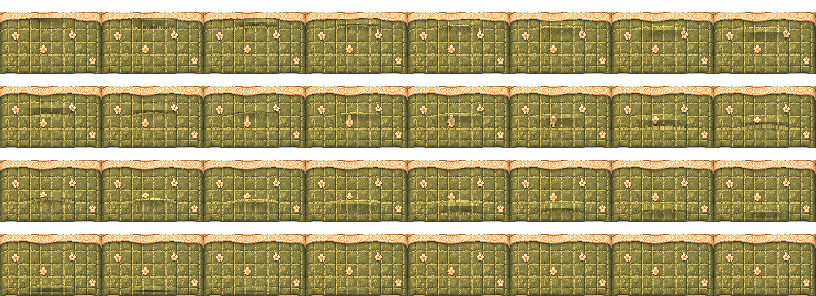
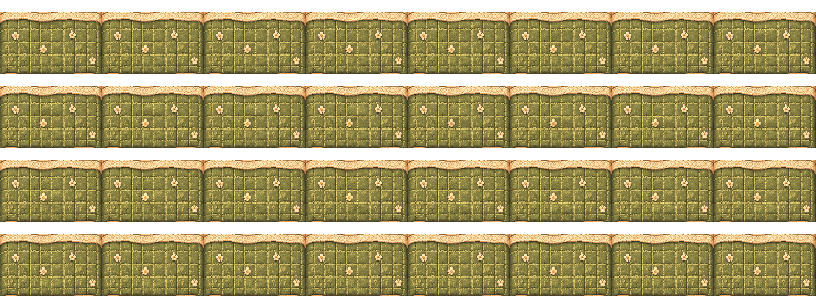
Fix Lucky bed clipping and the traveling quilt artifact

diff --git a/src/game/TrioSleepController.ts b/src/game/TrioSleepController.ts
@@ -6,6 +6,7 @@ import type {PetActionDirector} from './PetActionDirector'
 import type {CompanionController} from './CompanionController'
 import {luckyMotion} from './luckyAssets'
 import {trioAllowed} from './access'
+import {luckyBedAssetsReady} from './luckyBedFrames'
 export class TrioSleepController {
  readonly state=new TrioState()
  readonly scope:ActionScope
@@ -13,14 +14,14 @@ export class TrioSleepController {
  private onBed=false
  private burrowed=false
  private lift=0
- private exposedEdge=104
+ private tuck=0
  private reveal=0
  private head:Phaser.GameObjects.Sprite
  private above:Phaser.GameObjects.Sprite
- private frontMask:Phaser.GameObjects.Graphics
  private bodyMask:Phaser.GameObjects.Graphics
- private headMask:Phaser.GameObjects.Graphics
  private bodyGeometry:Phaser.Display.Masks.GeometryMask
+ private frontMask:Phaser.GameObjects.Graphics
+ private headMask:Phaser.GameObjects.Graphics
  private frontGeometry:Phaser.Display.Masks.GeometryMask
  private headGeometry:Phaser.Display.Masks.GeometryMask
  private shadow:Phaser.GameObjects.Ellipse
@@ -28,14 +29,18 @@ export class TrioSleepController {
  private lampShade={alpha:0}
  private recovery?:Promise<void>
  private priorIntent:'free'|'follow'|'follow-mendu'='free'
- constructor(scene:Phaser.Scene,private lucky:LuckyController,private director:PetActionDirector,private companion:CompanionController,
+ constructor(private scene:Phaser.Scene,private lucky:LuckyController,private director:PetActionDirector,private companion:CompanionController,
   private getLocation:()=> 'home'|'yard',private travelHome:(valid:()=>boolean)=>Promise<boolean>,private notice:(message:string)=>void){
   this.scope=new ActionScope(scene)
   this.head=scene.add.sprite(96,88,'lucky-performance',49).setOrigin(.5,1).setCrop(0,0,40,26).setDepth(12.18).setVisible(false)
-  this.above=scene.add.sprite(0,0,'lucky-performance').setOrigin(.5,1).setDepth(12.25).setVisible(false)
-  this.frontMask=scene.make.graphics({x:0,y:0});this.frontMask.fillStyle(0xffffff).fillRect(75,132,42,70);this.frontGeometry=this.frontMask.createGeometryMask();this.above.setMask(this.frontGeometry)
-  this.bodyMask=scene.make.graphics({x:0,y:0});this.bodyMask.fillStyle(0xffffff).fillRect(75,78,42,90);this.bodyGeometry=this.bodyMask.createGeometryMask()
-  this.headMask=scene.make.graphics({x:0,y:0});this.headGeometry=this.headMask.createGeometryMask();this.head.setMask(this.headGeometry)
+  this.above=scene.add.sprite(0,0,'lucky-performance').setOrigin(.5,1).setDepth(12.19).setVisible(false)
+  this.frontMask=scene.make.graphics({}, false);this.frontMask.fillStyle(0xffffff).fillRect(75,132,42,70);this.frontGeometry=this.frontMask.createGeometryMask();this.above.setMask(this.frontGeometry)
+  // The submerged copy cannot leak through the top edge when the head
+  // crosses from below the blanket to the separately revealed pillow layer.
+  this.bodyMask=scene.make.graphics({}, false)
+  this.bodyMask.fillStyle(0xffffff).fillRect(74,78,44,72)
+  this.bodyGeometry=this.bodyMask.createGeometryMask()
+  this.headMask=scene.make.graphics({}, false);this.headGeometry=this.headMask.createGeometryMask();this.head.setMask(this.headGeometry)
   this.shadow=scene.add.ellipse(0,0,16,5,0x47372a,.22).setDepth(3.5).setVisible(false)
   this.lamp=scene.add.graphics().setDepth(14)
  }
@@ -46,12 +51,25 @@ export class TrioSleepController {
   if (this.burrowed && !this.head.visible && this.lucky.sprite.y > 94) {
    quilt.raiseAt(this.lucky.sprite.y - 12)
   } else quilt.liftCenter(this.burrowed ? this.lift / 10 : null)
-  this.frontMask.clear().fillStyle(0xffffff).fillRect(75,this.exposedEdge,42,70)
+  const top = this.lucky.sprite.y - 41 + Math.round(this.tuck * 48)
+  const center = this.lucky.sprite.x
+  // Paint only Lucky's portion in front of the quilt. An arched lip covers
+  // the head first, then the shoulders and finally the rear paws.
+  this.frontMask.clear().fillStyle(0xffffff)
+    .beginPath().moveTo(center - 22, top - 4)
+    .lineTo(center - 12, top).lineTo(center - 5, top + 2)
+    .lineTo(center + 5, top + 2).lineTo(center + 12, top)
+    .lineTo(center + 22, top - 4).lineTo(center + 22, top + 55)
+    .lineTo(center - 22, top + 55).closePath().fillPath()
   this.headMask.clear().fillStyle(0xffffff).fillRect(75,78-this.reveal,42,this.reveal)
  }
  private async cover(token:number,lift:number,duration=400){return this.scope.tween(token,{targets:this,lift,duration,onUpdate:()=>this.updateQuilt()})}
  private phase(token:number,phase:Parameters<TrioState['advance']>[1]){return this.state.advance(token,phase)}
  async start(){
+  if(trioAllowed && !luckyBedAssetsReady(this.scene.textures)){
+   this.notice('Lucky 的床铺动作素材未加载，请刷新页面后再试。')
+   return
+  }
   const revision=this.state.begin(trioAllowed)
   if(revision===null){this.notice(trioAllowed?'三人睡眠正在进行。':'三人睡眠仅在授权的私有试玩中开放。');return}
   this.revision=revision
@@ -79,13 +97,34 @@ export class TrioSleepController {
    if(!await this.jump(token,{x:126,y:125},true))return
    this.phase(revision,'LAND')
    if(!await this.land(token,true,true))return
+   this.phase(revision,'WALK_BED')
    const dog = this.lucky.sprite
    dog.setFlipX(false)
-   if(!await this.scope.tween(token,{targets:dog,x:96,y:125,duration:330,onStart:()=>luckyMotion(dog,'left','walk')}))return
-   if(!await this.scope.tween(token,{targets:dog,y:133,duration:180,onStart:()=>luckyMotion(dog,'down','walk')}))return
-   this.phase(revision,'BURROW');this.burrowed=true;this.exposedEdge=104;this.frame(20);this.lucky.sprite.setMask(this.bodyGeometry);this.above.setVisible(true)
-   if(!await this.scope.tween(token,{targets:this,lift:9,exposedEdge:122,duration:390,onUpdate:()=>this.updateQuilt()}))return
-   for(const [frame,y]of [[20,130],[21,122],[22,112],[23,101]]as const){this.frame(frame);if(!await this.scope.tween(token,{targets:this.lucky.sprite,y,duration:350}))return}
+   luckyMotion(dog,'left','walk')
+   if(!await this.scope.tween(token,{targets:dog,x:96,y:125,duration:425}))return
+   luckyMotion(dog,'down','walk')
+   if(!await this.scope.tween(token,{targets:dog,y:133,duration:220}))return
+   luckyMotion(dog,'up','idle')
+   if(!await this.scope.wait(token,125))return
+
+   this.phase(revision,'BURROW')
+   this.burrowed=true
+   dog.setMask(this.bodyGeometry)
+   this.tuck=0
+   this.lift=9
+   this.shadow.setVisible(false)
+   this.frame(21)
+   this.updateExposedSprite()
+   this.updateQuilt()
+   this.above.setVisible(true)
+   for(const [frame,y,tuck] of [[21,129,.30],[22,121,.68],[23,109,1]] as const){
+    this.frame(frame)
+    const from=this.tuck
+    if(!await this.scope.tween(token,{
+     targets:dog,y,duration:280,onUpdate:tween=>{ this.tuck=from+(tuck-from)*tween.progress },
+    }))return
+   }
+   this.above.setVisible(false)
    this.frame(26);if(!await this.scope.tween(token,{targets:this.lucky.sprite,y:88,duration:750}))return
    this.frame(48);this.head.setVisible(true);if(!await this.scope.tween(token,{targets:this,reveal:25,duration:550,onUpdate:()=>this.updateQuilt()}))return
    if(!await this.cover(token,1.5))return
@@ -107,16 +146,22 @@ export class TrioSleepController {
  }
  private async jump(token:number,target:{x:number;y:number},flip:boolean){
   const dog=this.lucky.sprite, start={x:dog.x,y:dog.y}, progress={t:0}
-  this.jumpPose(3,flip)
-  return this.scope.tween(token,{
-   targets:progress,t:1,duration:480,ease:'Linear',
-   onUpdate:()=>{
-    const t=progress.t, groundX=start.x+(target.x-start.x)*t, groundY=start.y+(target.y-start.y)*t
-    this.jumpPose(t<.22?3:t<.58?4:5,flip)
-    dog.setPosition(groundX,groundY-4*15*t*(1-t))
-    this.shadow.setPosition(groundX,groundY+2).setScale(1-.28*Math.sin(Math.PI*t),1)
-   },
-  })
+  const update=()=>{
+   const t=progress.t
+   const groundX=start.x+(target.x-start.x)*t
+   const groundY=start.y+(target.y-start.y)*t
+   dog.setPosition(groundX,groundY-4*15*t*(1-t))
+   this.shadow.setPosition(groundX,groundY+2).setScale(1-.28*Math.sin(Math.PI*t),1)
+  }
+  // Separate the pose holds so even a delayed render does not skip the apex.
+  // All three segments still sample the same continuous arc.
+  for(const [frame,end,duration] of [[3,.23,110],[4,.58,170],[5,1,200]] as const){
+   this.jumpPose(frame,flip)
+   if(!await this.scope.tween(token,{
+    targets:progress,t:end,duration,ease:'Linear',onUpdate:update,
+   }))return false
+  }
+  return true
  }
  private async land(token:number,flip:boolean,onMattress:boolean){
   for(const [frame,duration,compression] of [[6,115,1],[7,150,2],[0,145,0]]){
@@ -160,23 +205,39 @@ export class TrioSleepController {
    if(!await this.cover(token,9))return false
    if(!await this.scope.tween(token,{targets:this,reveal:0,duration:400,onUpdate:()=>this.updateQuilt()}))return false
    this.head.setVisible(false);this.frame(29)
-   this.exposedEdge=122
-   if(!await this.scope.tween(token,{targets:this.lucky.sprite,y:145,duration:860}))return false
-   this.frame(28);if(!await this.scope.tween(token,{targets:this.lucky.sprite,y:160,duration:400}))return false
-   this.lucky.sprite.clearMask();this.above.setVisible(false);this.burrowed=false
+   this.updateExposedSprite()
+   this.above.setVisible(true)
+   const from=this.tuck
+   if(!await this.scope.tween(token,{
+    targets:this.lucky.sprite,y:128,duration:760,
+    onUpdate:tween=>{ this.tuck=from*(1-tween.progress) },
+   }))return false
+   this.frame(28);if(!await this.scope.tween(token,{targets:this.lucky.sprite,y:134,duration:260}))return false
+   this.lucky.sprite.clearMask()
+   this.above.setVisible(false);this.burrowed=false
    this.frame(30);if(!await this.scope.wait(token,550))return false
   }
   if(!await this.prepareJump(token,false))return false
   this.shadow.setVisible(true)
   if(!await this.jump(token,{x:168,y:144},false)||!await this.land(token,false,false))return false
-  this.onBed=false;this.lucky.setAirborne(false);this.lucky.sprite.clearMask();this.shadow.setVisible(false);this.companion.bed.quilt.liftCenter(null);this.head.setVisible(false);this.above.setVisible(false)
+  this.onBed=false;this.lucky.setAirborne(false);this.shadow.setVisible(false);this.companion.bed.quilt.liftCenter(null);this.head.setVisible(false);this.above.setVisible(false)
   // Keep Lucky grounded but coordinated until BOTH humans finish leaving bed.
   this.lucky.setExternal(true);this.lucky.machine.state='IDLE';luckyMotion(this.lucky.sprite,'down','idle');return true
  }
- private cleanup(resumeLucky=true){this.onBed=false;this.burrowed=false;this.reveal=0;this.lift=0;this.lampShade.alpha=0;this.lamp.clear();this.lucky.sprite.clearMask();this.head.setVisible(false);this.above.setVisible(false);this.companion.bed.quilt.liftCenter(null);this.shadow.setVisible(false);this.companion.bed.setMattressOffset(0);this.companion.bed.setHeadLayerEnabled(false);this.companion.lockRole('mashuo',false);this.companion.lockRole('mendu',false);if(resumeLucky){this.lucky.setExternal(false);this.lucky.legacyRequest(this.priorIntent)}}
+ private cleanup(resumeLucky=true){this.onBed=false;this.burrowed=false;this.lucky.sprite.clearMask();this.tuck=0;this.reveal=0;this.lift=0;this.lampShade.alpha=0;this.lamp.clear();this.head.setVisible(false);this.above.setVisible(false);this.companion.bed.quilt.liftCenter(null);this.shadow.setVisible(false);this.companion.bed.setMattressOffset(0);this.companion.bed.setHeadLayerEnabled(false);this.companion.lockRole('mashuo',false);this.companion.lockRole('mendu',false);if(resumeLucky){this.lucky.setExternal(false);this.lucky.legacyRequest(this.priorIntent)}}
+ private updateExposedSprite(){
+  const body=this.lucky.sprite
+  this.above.setPosition(body.x,body.y).setTexture(body.texture.key,body.frame.name).setFlipX(body.flipX)
+ }
  update(time:number){
   if(!this.active)return
-  if(this.onBed){this.lucky.sprite.setDepth(this.burrowed?11:12.3);this.above.setPosition(this.lucky.sprite.x,this.lucky.sprite.y).setTexture(this.lucky.sprite.texture.key,this.lucky.sprite.frame.name).setFlipX(this.lucky.sprite.flipX)}
+  if(this.onBed){
+   this.lucky.sprite.setDepth(this.burrowed?11:12.15)
+   if(this.above.visible)this.updateExposedSprite()
+   if(this.state.phase==='LAND'||this.state.phase==='WALK_BED'){
+    this.shadow.setPosition(this.lucky.sprite.x,this.lucky.sprite.y+2).setScale(1)
+   }
+  }
   if(this.state.phase==='SLEEP'){
    this.frame(49+Math.floor(time/1500)%2);this.head.setTexture('lucky-performance',this.lucky.sprite.frame.name).setPosition(96,88);this.lift=1.5+Math.sin(time/1700)*.7;this.updateQuilt()
   }else if(this.head.visible)this.head.setTexture(this.lucky.sprite.texture.key,this.lucky.sprite.frame.name).setPosition(this.lucky.sprite.x,this.lucky.sprite.y)
@@ -184,5 +245,5 @@ export class TrioSleepController {
   this.lamp.clear();if(this.lampShade.alpha>0)this.lamp.fillStyle(0x3e3024,this.lampShade.alpha).fillRoundedRect(162,115,13,20,3)
  }
  resetScene(){if(this.transfer||!this.active)return;this.scope.cancel();const rev=this.state.cancel();this.state.recovered(rev);this.cleanup()}
- dispose(){this.scope.dispose();this.lucky.sprite.clearMask();this.head.destroy();this.above.destroy();this.shadow.destroy();this.lamp.destroy();this.frontGeometry.destroy();this.bodyGeometry.destroy();this.headGeometry.destroy();this.frontMask.destroy();this.bodyMask.destroy();this.headMask.destroy()}
+ dispose(){this.scope.dispose();this.lucky.sprite.clearMask();this.bodyGeometry.destroy();this.bodyMask.destroy();this.head.destroy();this.above.destroy();this.shadow.destroy();this.lamp.destroy();this.frontGeometry.destroy();this.headGeometry.destroy();this.frontMask.destroy();this.headMask.destroy()}
 }

diff --git a/src/game/coordinatedActions.test.ts b/src/game/coordinatedActions.test.ts
@@ -6,6 +6,6 @@ describe('coordinated animation contracts',()=>{
  it('rejects guests and conflicting trio starts',()=>{const state=new TrioState();expect(state.begin(false)).toBeNull();expect(state.active).toBe(false);const token=state.begin(true)!;expect(state.begin(true)).toBeNull();expect(state.advance(token,'JUMP')).toBe(false)})
  it('cannot commit old phases after cancellation and recovery',()=>{const state=new TrioState(),old=state.begin(true)!;state.advance(old,'PEOPLE_ENTER');const recovery=state.cancel();expect(state.advance(old,'LUCKY_APPROACH')).toBe(false);expect(state.recovered(recovery)).toBe(true);expect(state.active).toBe(false);expect(state.begin(true)).not.toBeNull()})
  it('keeps human and Lucky performance sheets transparent and aligned',()=>{for(const [name,width,height]of [['mashuo-pet',320,240],['mendu-pet',320,240],['mashuo-arms',320,240],['mendu-arms',320,240],['lucky-performance',320,280]]as const){const bytes=readFileSync('src/assets/coordinated/'+name+'.png');expect([bytes.readUInt32BE(16),bytes.readUInt32BE(20),bytes[25]]).toEqual([width,height,6])}})
- it('supports a complete trio cycle and permits another start only after everyone recovers',()=>{const state=new TrioState(),token=state.begin(true)!;for(const next of ['PEOPLE_ENTER','LUCKY_APPROACH','JUMP','LAND','BURROW','SLEEP','LUCKY_WAKE','PEOPLE_WAKE','IDLE']as const)expect(state.advance(token,next)).toBe(true);expect(state.active).toBe(false);expect(state.begin(true)).not.toBeNull()})
+ it('supports a complete trio cycle and permits another start only after everyone recovers',()=>{const state=new TrioState(),token=state.begin(true)!;for(const next of ['PEOPLE_ENTER','LUCKY_APPROACH','JUMP','LAND','WALK_BED','BURROW','SLEEP','LUCKY_WAKE','PEOPLE_WAKE','IDLE']as const)expect(state.advance(token,next)).toBe(true);expect(state.active).toBe(false);expect(state.begin(true)).not.toBeNull()})
  it('tracks mouth anchors in all run frames and occludes the rear mouth',()=>{for(const direction of directions)for(let phase=0;phase<4;phase++){const anchor=mouthAnchor(direction,16+phase);expect(Number.isFinite(anchor.x+anchor.y)).toBe(true);expect(anchor.behind).toBe(direction==='up');expect(attach({x:100,y:100},cradleAnchors[direction])).toEqual({x:100+cradleAnchors[direction].x,y:100+cradleAnchors[direction].y})}})
 })

diff --git a/src/game/luckyBedFrames.test.ts b/src/game/luckyBedFrames.test.ts
@@ -1,0 +1,32 @@
+import type Phaser from 'phaser'
+import { describe, expect, it } from 'vitest'
+import { luckyBedAssetsReady, luckyBedFrames } from './luckyBedFrames'
+
+const matchingFrame = { cutX: 40, cutY: 40, cutWidth: 40, cutHeight: 40, source: { width: 320, height: 280 } }
+
+function textures(options: { missingSheet?: string; missingFrame?: number; badCut?: boolean } = {}) {
+  return {
+    exists: (key: string) => key !== options.missingSheet,
+    get: (key: string) => ({
+      has: (index: string) => key !== 'lucky-jump' || Number(index) !== options.missingFrame,
+      get: () => options.badCut ? { ...matchingFrame, cutX: 300 } : matchingFrame,
+    }),
+  } as unknown as Phaser.Textures.TextureManager
+}
+
+describe('Lucky bed animation atlas contract', () => {
+  it('accepts every bed pose when all loaded frames have valid 40×40 cuts', () => {
+    expect(luckyBedAssetsReady(textures())).toBe(true)
+    expect(luckyBedFrames['lucky-jump']).toContain(6)
+    expect(luckyBedFrames.lucky).toContain(7)
+  })
+
+  it('blocks the action before taking over the scene if an atlas or a landing frame is missing', () => {
+    expect(luckyBedAssetsReady(textures({ missingSheet: 'lucky-performance' }))).toBe(false)
+    expect(luckyBedAssetsReady(textures({ missingFrame: 6 }))).toBe(false)
+  })
+
+  it('rejects a frame cut outside its source atlas', () => {
+    expect(luckyBedAssetsReady(textures({ badCut: true }))).toBe(false)
+  })
+})

diff --git a/src/game/luckyBedFrames.ts b/src/game/luckyBedFrames.ts
@@ -1,0 +1,23 @@
+import type Phaser from 'phaser'
+
+/** Frames used by the bed choreography. Floor walking is also used on the mattress. */
+export const luckyBedFrames = {
+  lucky: [0, 1, 2, 3, 4, 5, 6, 7, 12, 13, 14, 15, ...Array.from({ length: 16 }, (_, i) => i + 16)],
+  'lucky-jump': [0, 1, 2, 3, 4, 5, 6, 7],
+  'lucky-performance': [18, 19, 20, 21, 22, 23, 26, 28, 29, 30, 48, 49, 50, 51],
+} as const
+
+export function luckyBedAssetsReady(textures: Phaser.Textures.TextureManager) {
+  return Object.entries(luckyBedFrames).every(([key, frames]) => {
+    if (!textures.exists(key)) return false
+    const texture = textures.get(key)
+    return frames.every(index => {
+      if (!texture.has(String(index))) return false
+      const frame = texture.get(index)
+      return frame.cutWidth === 40 && frame.cutHeight === 40
+        && frame.cutX >= 0 && frame.cutY >= 0
+        && frame.cutX + frame.cutWidth <= frame.source.width
+        && frame.cutY + frame.cutHeight <= frame.source.height
+    })
+  })
+}

diff --git a/src/game/trioState.ts b/src/game/trioState.ts
@@ -1,5 +1,5 @@
-export type TrioPhase='IDLE'|'RETURN_HOME'|'PEOPLE_ENTER'|'LUCKY_APPROACH'|'JUMP'|'LAND'|'BURROW'|'SLEEP'|'LUCKY_WAKE'|'PEOPLE_WAKE'|'RECOVER'
-const phases:TrioPhase[]=['RETURN_HOME','PEOPLE_ENTER','LUCKY_APPROACH','JUMP','LAND','BURROW','SLEEP','LUCKY_WAKE','PEOPLE_WAKE','IDLE']
+export type TrioPhase='IDLE'|'RETURN_HOME'|'PEOPLE_ENTER'|'LUCKY_APPROACH'|'JUMP'|'LAND'|'WALK_BED'|'BURROW'|'SLEEP'|'LUCKY_WAKE'|'PEOPLE_WAKE'|'RECOVER'
+const phases:TrioPhase[]=['RETURN_HOME','PEOPLE_ENTER','LUCKY_APPROACH','JUMP','LAND','WALK_BED','BURROW','SLEEP','LUCKY_WAKE','PEOPLE_WAKE','IDLE']
 export class TrioState {
   phase:TrioPhase='IDLE';private revision=0
   get active(){return this.phase!=='IDLE'}

diff --git a/scripts/prepare_quilt_folds.py b/scripts/prepare_quilt_folds.py
@@ -89,17 +89,23 @@ pack('fold-center.png', [center_frame(base, n / (FRAMES - 1)) for n in range(FRA
 # central fold follows the shoulders from the foot to that lip.
 def traveling_fold(source, offset):
     result = center_frame(source, 0)
-    for x in range(24, 78):
-        across = max(0, 1 - ((x - 50.5) / 27) ** 2)
-        for y in range(6, 58):
-            distance = (y - offset) / 8
+    for x in range(102):
+        lateral = (x - 50.5) / 19
+        if abs(lateral) >= 1:
+            continue
+        across = (1 - lateral ** 2) ** 2
+        # A rounded crest, with a continuously changing light-to-shadow slope.
+        crest = offset + 5 * lateral ** 2
+        for y in range(HEIGHT):
+            distance = (y - crest) / 11
             if abs(distance) >= 1:
                 continue
-            weight = (1 - distance ** 2) * across
-            source_y = max(0, y + round(weight * 4))
-            pixel = source.getpixel((x, source_y))
-            shade = 1 + weight * (.20 if distance < 0 else -.25)
-            result.putpixel((x, y + 12), tone(pixel, shade))
+            longitudinal = (1 - distance ** 2) ** 2
+            # Taper at the lace and mattress edge. Preserve the source weave in
+            # place, including each stitched grid line and the alpha silhouette.
+            taper = min(1, y / 8, (HEIGHT - 1 - y) / 6)
+            shade = 1 - .33 * distance * across * longitudinal * taper
+            result.putpixel((x, y + 12), tone(source.getpixel((x, y)), shade))
     return result
 
 pack('fold-travel.png', [traveling_fold(base, offset) for offset in range(6, 69, 2)])

diff --git a/docs/LUCKY_BED_RENDER_FIX.md b/docs/LUCKY_BED_RENDER_FIX.md
@@ -1,0 +1,9 @@
+# Lucky 上床后的绿色方块
+
+Chromium 实机复现时，逐帧记录 Lucky 主精灵、被面和遮挡精灵的纹理键、帧号、深度、可见性与位置。床面行走阶段使用 `lucky` 的四向图集，钻被使用 `lucky-performance`，切换过程中的图块都是有效的 40×40 原创 Lucky 帧。绿色物体来自深度 12 的床铺中央被面精灵 `fold-travel`。它在 `raiseAt()` 切换帧时沿床铺移动。
+
+旧打包器在一条水平线上从加亮切到变暗，并向上取样原被面。硬边阴影与重采样后的格纹合成明显的暗绿色块。旧矩形遮罩同时快速裁掉 Lucky 上半身，因此暗块看起来像替换了 Lucky。遮罩图形是 Phaser 几何遮罩，没有出现在场景显示列表。逐帧记录没有发现占位图、路径标记或越界帧。
+
+修复只重打包中央移动褶皱。新帧保留源像素和透明边界，使用渐入渐出的弧形光影。两侧翻折、中央被沿抬起和人物动画图集维持原样。新 `WALK_BED` 阶段在两段移动开始前播放已加载的行走帧，随后面向枕头，从被缘逐渐遮住 Lucky 的头、肩和后爪。入睡后前景身体精灵退出，起床时重新出现。床沿仍挡在前景身体之前。
+
+`luckyBedFrames.ts` 会在启动动作前检查三张图集及所需帧的 40×40 裁切范围。单元测试覆盖缺失图集、缺失落地帧及裁切越界。Chromium 脚本 `scripts/qa-lucky-bed-render.cjs` 检查实际解码后的精灵像素、所有褶皱帧、各阶段真正渲染过的帧、遮挡推进及起床清理。验收录像来自同一条完整实机流程，可在播放器以 1 倍或 0.5 倍播放。
